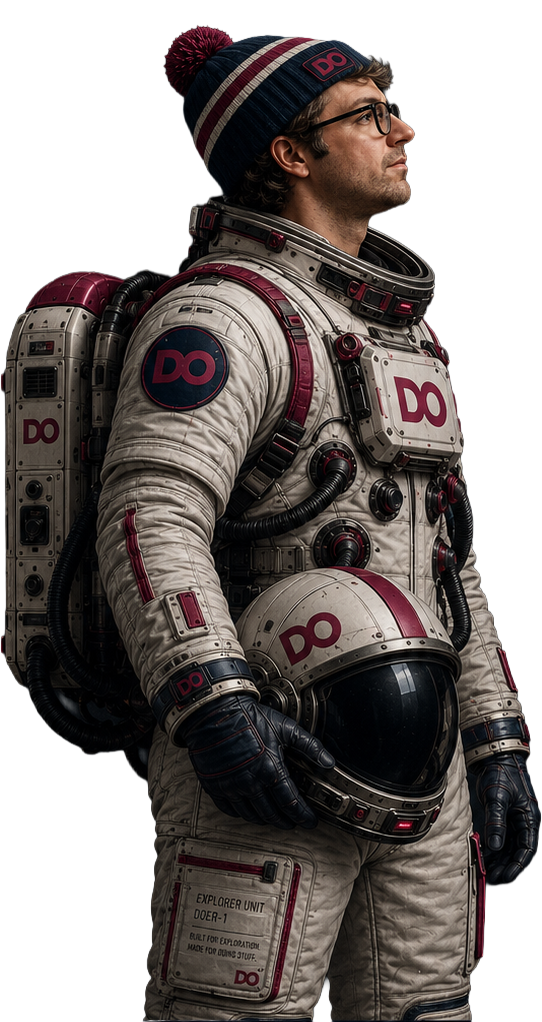
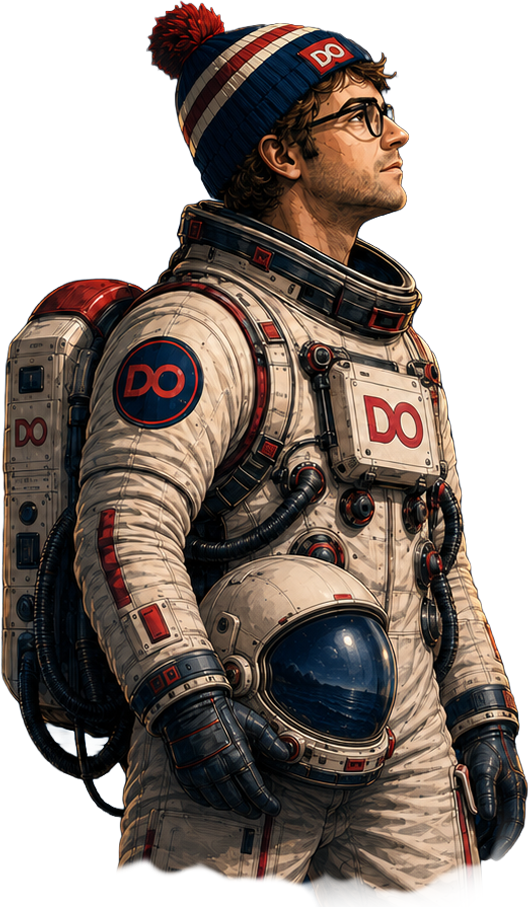
update DoSuit

diff --git a/src/routes/+page.svelte b/src/routes/+page.svelte
@@ -36,7 +36,7 @@
 
 		<div class="astronaut">
 			<img
-				src={asset('/images/astronaut2.webp')}
+				src={asset('/images/doer.png')}
 				alt="An astronaut in a knit beanie with the DO logo, helmet tucked under his arm"
 			/>
 		</div>
@@ -76,7 +76,7 @@
 		<ParticleField variant="bubbles" count={20} />
 
 		<div class="ocean-content">
-			<h2>Stuff I Done Did Already</h2>
+			<!-- <h2>Stuff I Done Did Already</h2> -->
 			{#if SHOWCASE_MODE === 'grid'}
 				<ProjectGrid />
 			{:else}
@@ -146,9 +146,9 @@
 	.astronaut {
 		position: absolute;
 		z-index: 4;
-		top: var(--nav-height);
+		top: 150px;
 		left: max(calc(50vw - 760px), -6vw);
-		width: clamp(560px, 63vw, 800px);
+		width: 600px;
 		aspect-ratio: 2 / 3;
 		pointer-events: none;
 	}
@@ -171,7 +171,7 @@
 		z-index: 1;
 		max-width: var(--content-max);
 		margin: 0 auto;
-		padding: clamp(40px, 6vw, 96px) var(--gutter) clamp(48px, 6vw, 110px);
+		padding: 0px var(--gutter) clamp(48px, 6vw, 110px);
 	}
 
 	h2 {
@@ -183,7 +183,7 @@
 	}
 
 	/* ---------------------------------------------- tablet (601–1100px) */
-	@media (max-width: 1100px) and (min-width: 601px) {
+	@media (max-width: 1100px) and (min-width: 901px) {
 		/* Cards stack in a right-hand column beside the astronaut */
 		.cards {
 			flex-direction: column;
@@ -194,7 +194,7 @@
 
 		.card {
 			flex-basis: auto;
-			width: min(366px, 52vw);
+			width: 49vw;
 		}
 
 		.astronaut {
@@ -213,7 +213,7 @@
 	}
 
 	/* -------------------------------------------------- phone (≤600px) */
-	@media (max-width: 600px) {
+	@media (max-width: 900px) {
 		.space-head {
 			padding-top: calc(var(--nav-height) + 40px);
 		}
@@ -221,7 +221,10 @@
 		h1 {
 			text-align: center;
 			margin: 0 auto;
-			max-width: 20em;
+			max-width: 90%;
+			font-size: 27px;
+			margin-top: 25px;
+			margin-bottom: 73px;
 		}
 
 		.h-desktop {
@@ -241,7 +244,7 @@
 			top: auto;
 			left: auto;
 			width: min(380px, 85vw);
-			height: calc(min(380px, 85vw) * 0.98);
+			height: 500px;
 			overflow: hidden;
 			margin: 12px auto -30px;
 		}
@@ -252,7 +255,7 @@
 
 		.cards {
 			flex-direction: column;
-			align-items: stretch;
+			align-items: center;
 			gap: 28px;
 			margin-top: 12px;
 		}
@@ -260,6 +263,7 @@
 		.card {
 			flex-basis: auto;
 			width: 100%;
+			max-width: 700px;
 		}
 
 		.space-cards {
